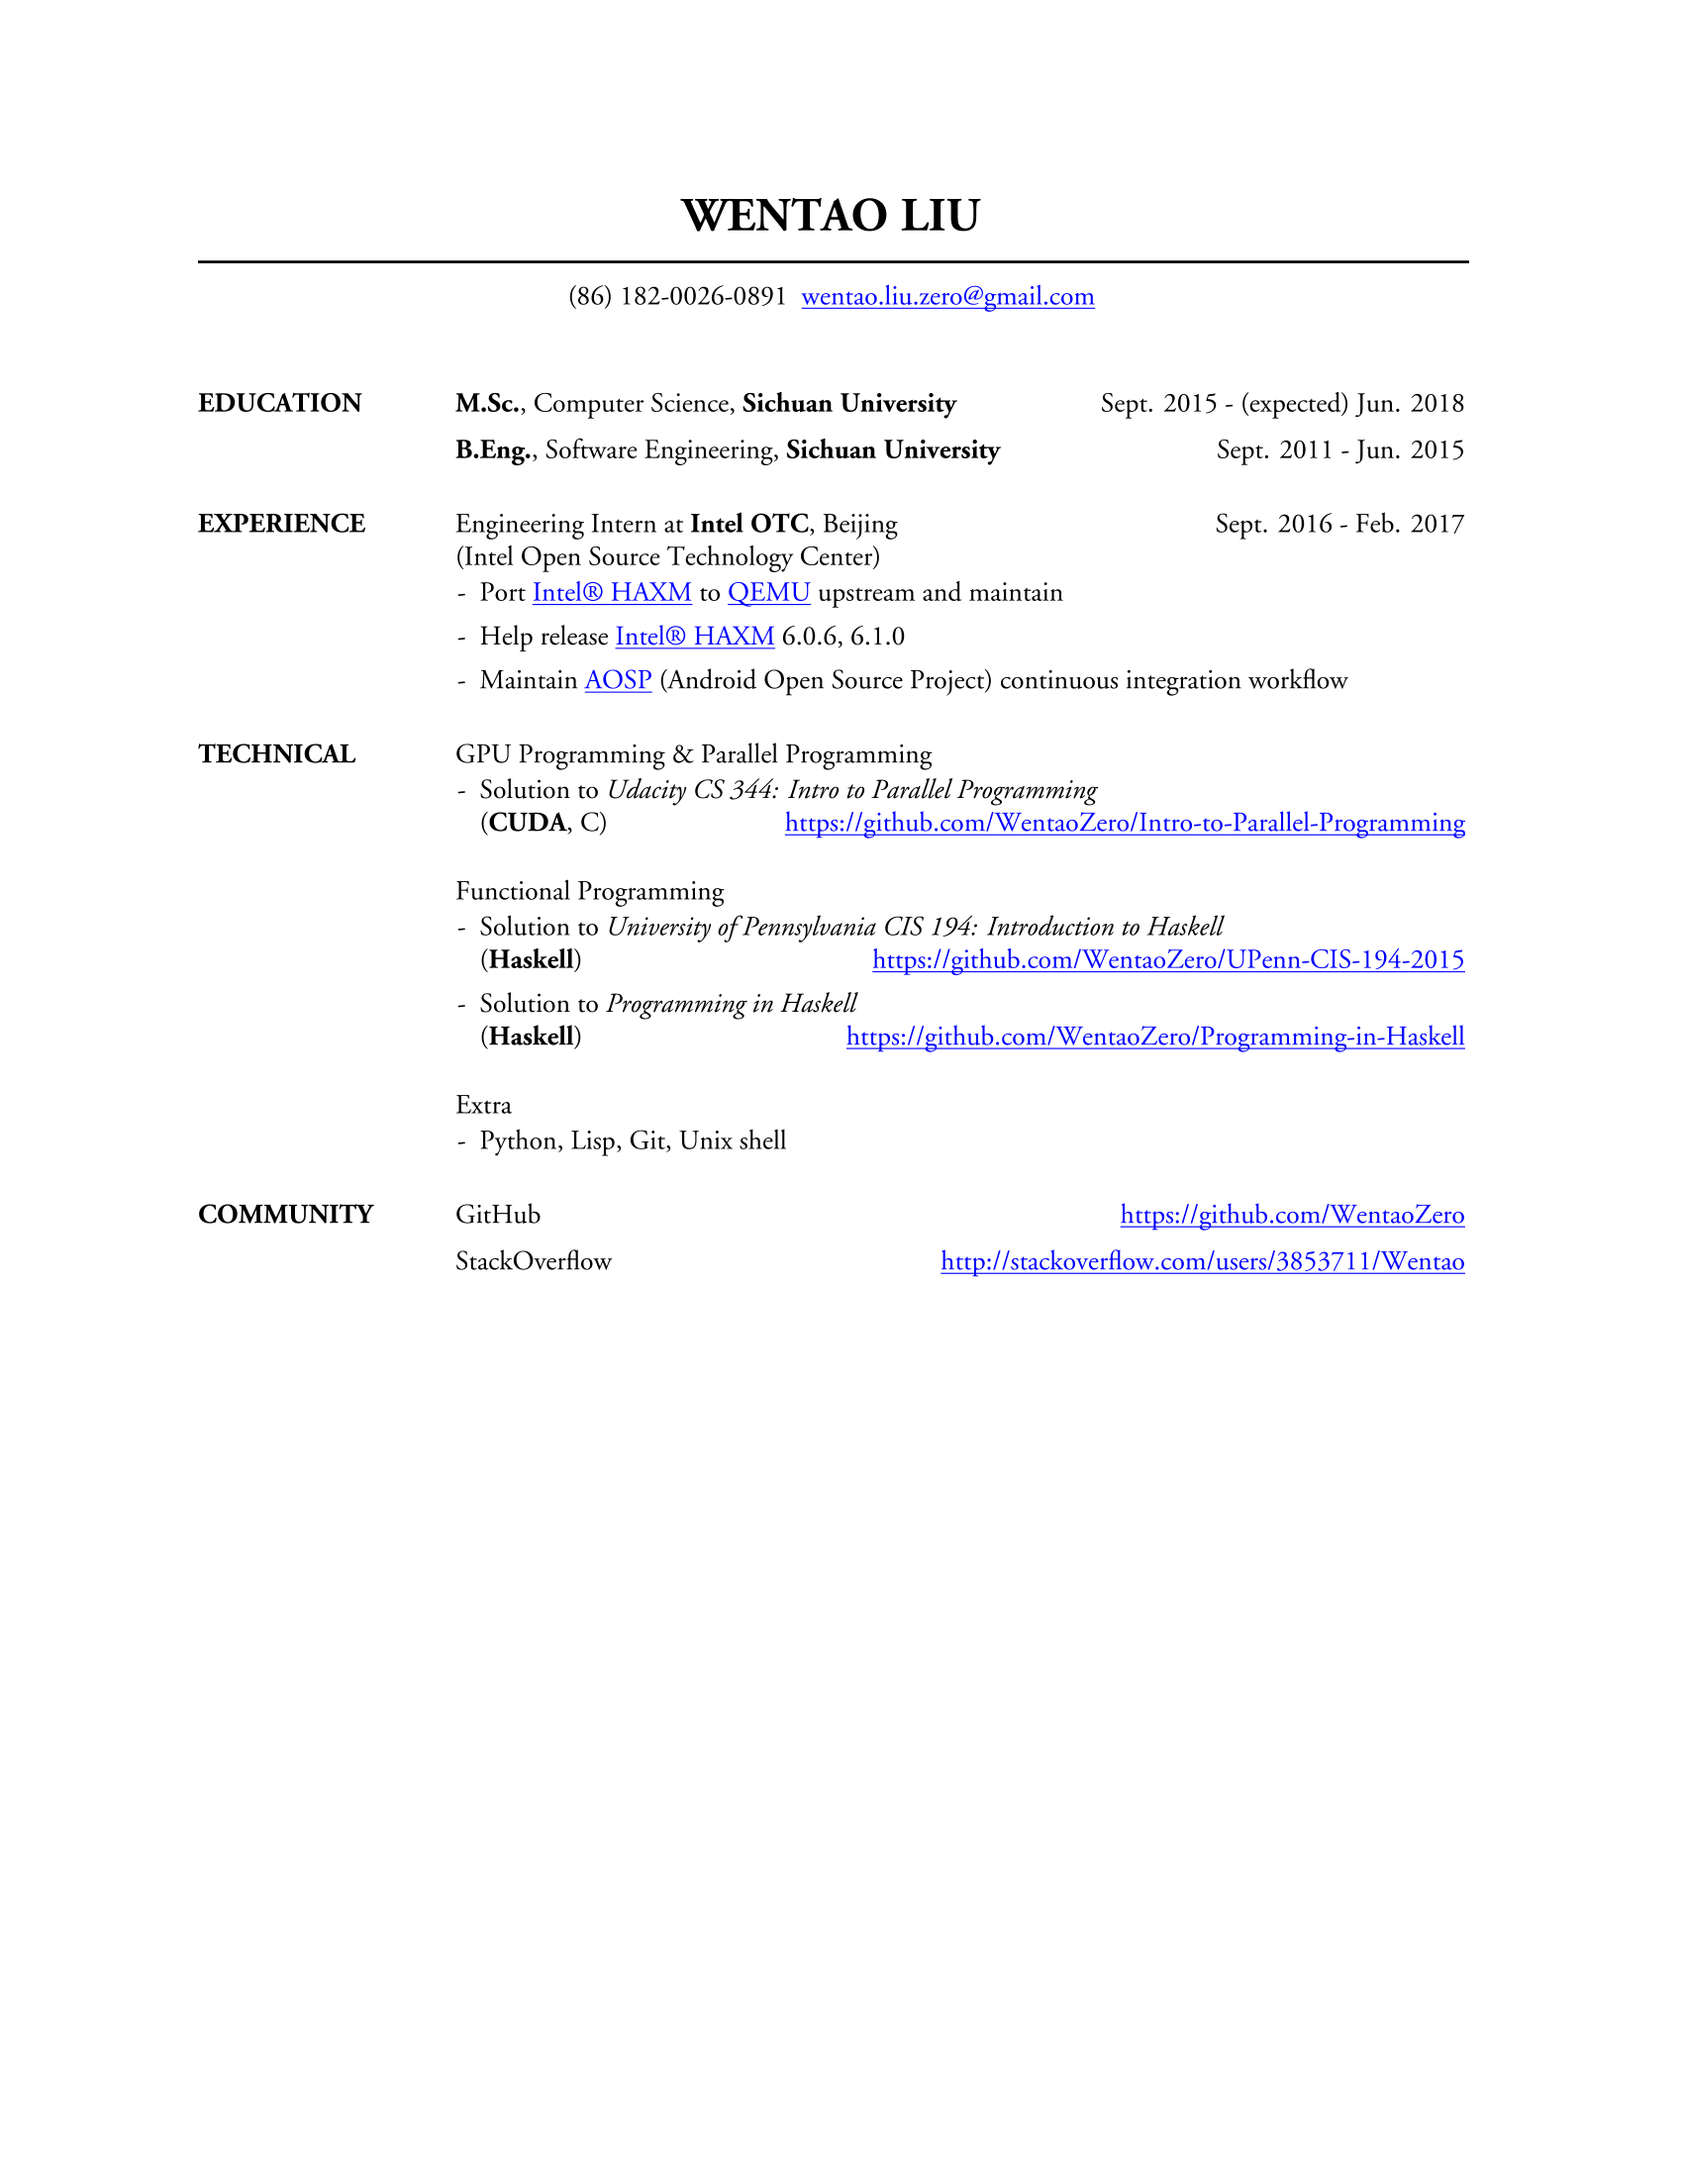
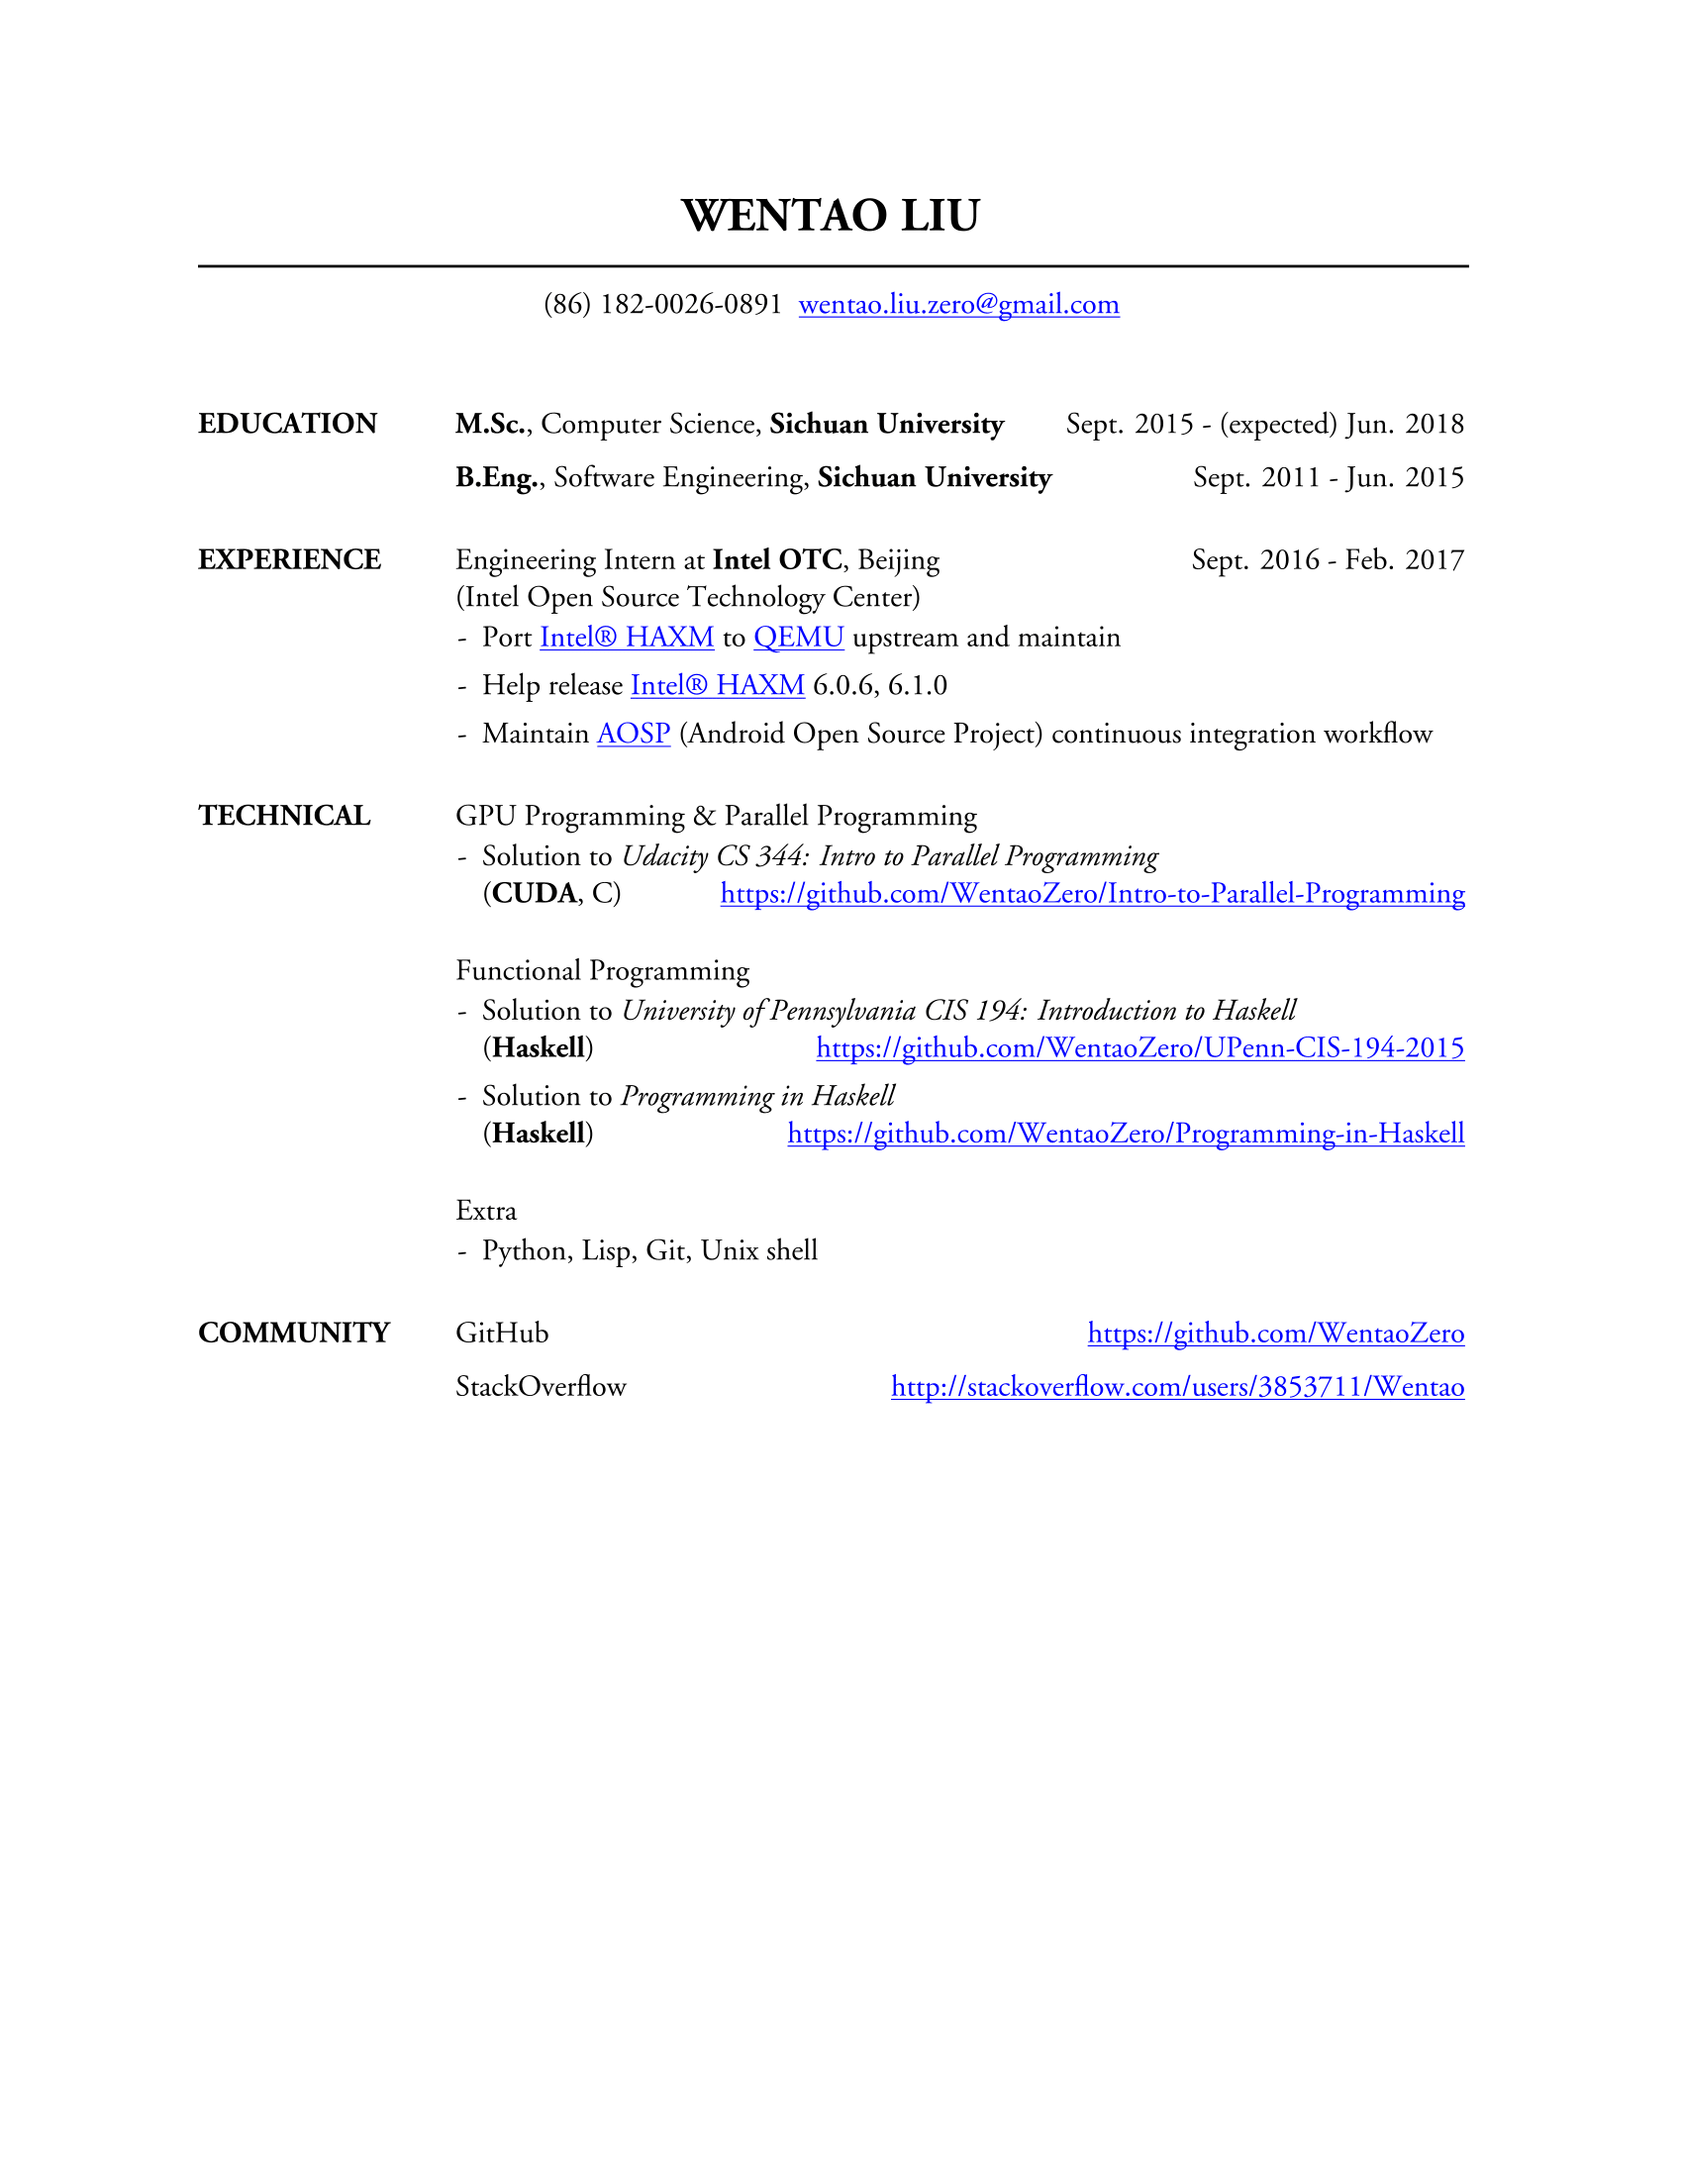
font size: 10pt -> 11pt

diff --git a/Resume-Wentao-LIU.tex b/Resume-Wentao-LIU.tex
@@ -1,4 +1,4 @@
-\documentclass[margin, 10pt]{res} % Use the res.cls style, the font size can be changed to 11pt or 12pt here
+\documentclass[margin, 11pt]{res} % Use the res.cls style, the font size can be changed to 11pt or 12pt here
 %\usepackage{helvet} % Default font is the helvetica postscript font
 %\usepackage{newcent} % To change the default font to the new century schoolbook postscript font uncomment this line and comment the one above
 %\usepackage{times}
